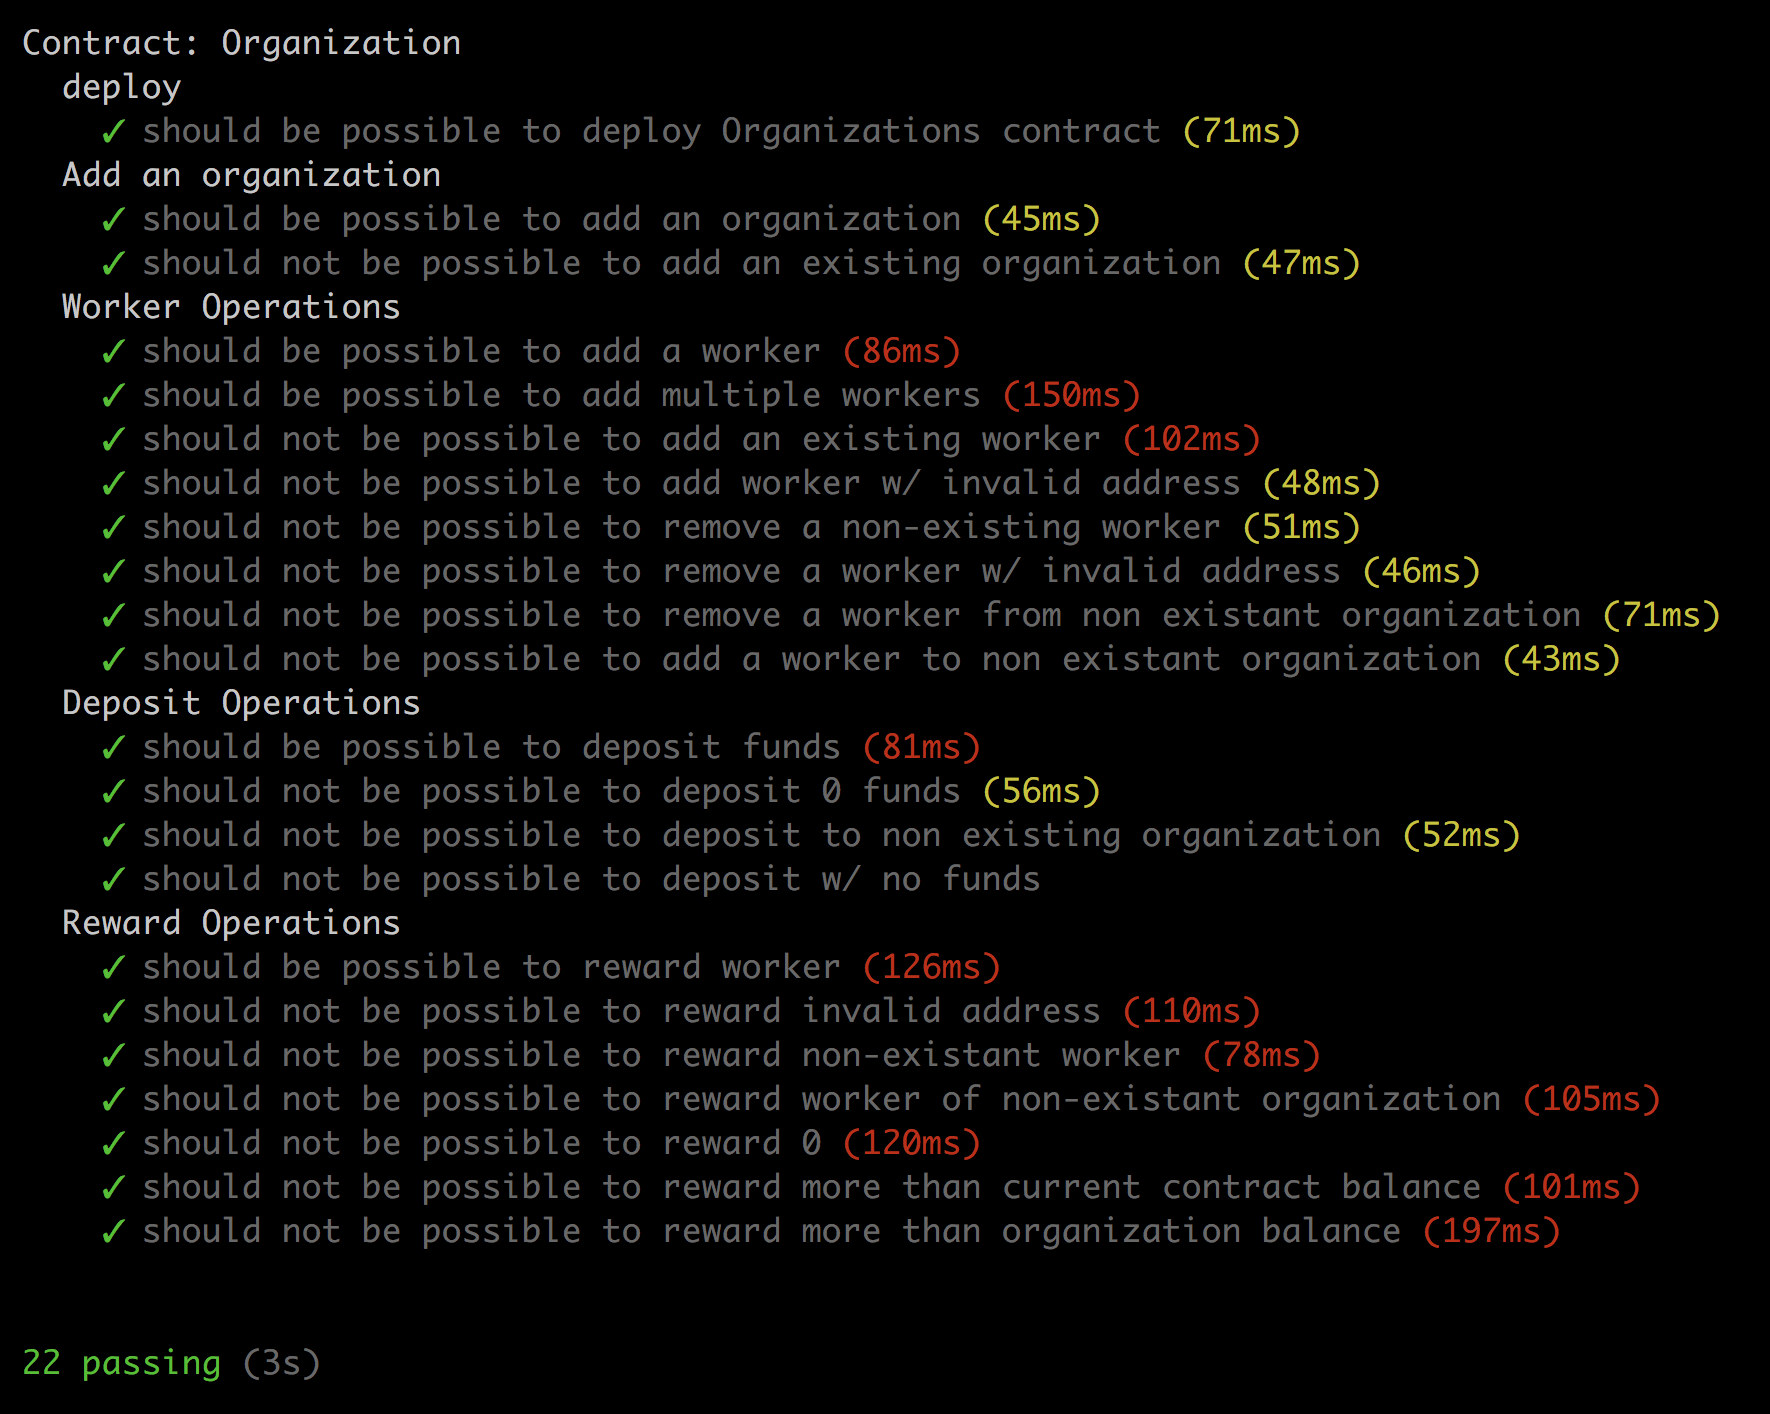
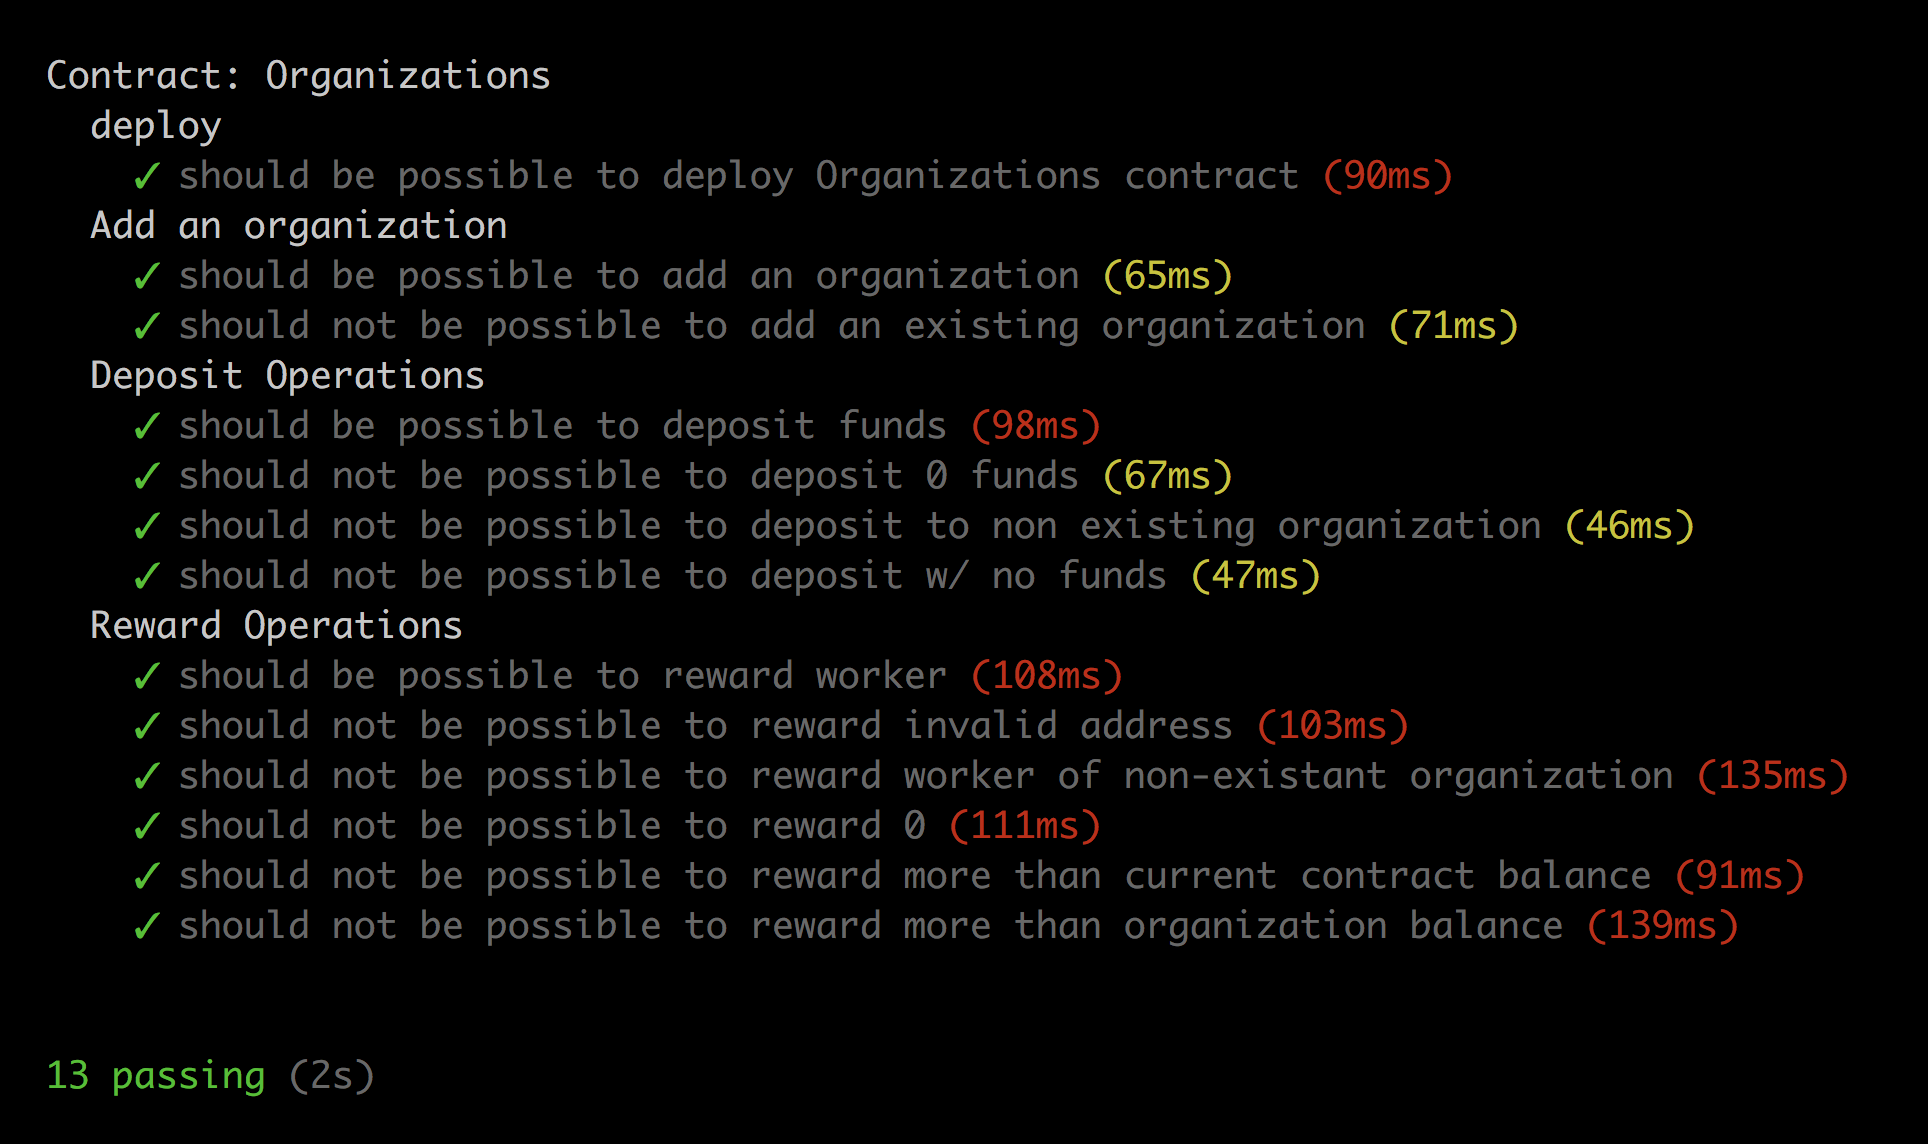
make contract simpler

Changed region(s): [[0.0, 0.0, 0.9633, 0.8872], [0.0, 0.9178, 0.1864, 0.979]]

diff --git a/test/organizations.spec.js b/test/organizations.spec.js
@@ -10,16 +10,15 @@ if (typeof web3.eth.getAccountsPromise === "undefined") {
     Promise.promisifyAll(web3.eth, { suffix: "Promise" });
 }
 
-contract('Organization', accounts => {
+contract('Organizations', accounts => {
 
-    let owner0, owner1, worker0, worker1, orgs;
+    let owner0, owner1, worker0, orgs;
 
     before("should prepare", async () => {
-        assert.isAtLeast(accounts.length, 4);
+        assert.isAtLeast(accounts.length, 3);
         owner0 = accounts[0];
-        owner1 = accounts[1]
+        owner1 = accounts[1];
         worker0 = accounts[2];
-        worker1 = accounts[3];
         const balance = await web3.eth.getBalancePromise(owner0);
         assert.isAtLeast(web3.fromWei(balance).toNumber(), 10);
     });
@@ -56,85 +55,6 @@ contract('Organization', accounts => {
               () => orgs.addOrganization({ from: owner0, gas: 3000000 }),
               3000000);
       });
-
-    });
-
-    describe("Worker Operations", () => {
-
-        beforeEach("should deploy organizations contract and add organization", async () => {
-            orgs = await Organizations.new({ from: owner0 });
-            orgs.addOrganization({ from: owner0 })
-        });
-
-        it("should be possible to add a worker", async () => {
-            const tx = await orgs.addWorker(worker0, { from: owner0 });
-            const workerExists = await orgs.getWorkerExistance(worker0);
-            assert.strictEqual(tx.receipt.logs.length, 1);
-            assert.strictEqual(tx.logs.length, 1);
-            const logWorkerAdded = tx.logs[0];
-            assert.strictEqual(logWorkerAdded.event, "LogWorkerAdded");
-            assert.strictEqual(logWorkerAdded.args._worker, worker0);
-            assert.strictEqual(workerExists, true, 'Worker does not exist');
-        });
-
-        it("should be possible to add multiple workers", async () => {
-            const tx = await orgs.addWorker(worker0, { from: owner0 });
-            const workerExists = await orgs.getWorkerExistance(worker0, { from: owner0 });
-            assert.strictEqual(tx.receipt.logs.length, 1);
-            assert.strictEqual(tx.logs.length, 1);
-            const logWorkerAdded = tx.logs[0];
-            assert.strictEqual(logWorkerAdded.event, "LogWorkerAdded");
-            assert.strictEqual(logWorkerAdded.args._worker, worker0);
-            assert.strictEqual(workerExists, true, 'Worker does not exist');
-
-            const tx2 = await orgs.addWorker(worker1, { from: owner0 });
-            const workerExists2 = await orgs.getWorkerExistance(worker1, { from: owner0 });
-            assert.strictEqual(tx2.receipt.logs.length, 1);
-            assert.strictEqual(tx2.logs.length, 1);
-            const logWorkerAdded2 = tx2.logs[0];
-            assert.strictEqual(logWorkerAdded2.event, "LogWorkerAdded");
-            assert.strictEqual(logWorkerAdded2.args._worker, worker1);
-            assert.strictEqual(workerExists2, true, 'Worker does not exist');
-        });
-
-        it("should not be possible to add an existing worker", async () => {
-            await orgs.addWorker(worker0, { from: owner0 });
-            return expectedExceptionPromise(
-                () => orgs.addWorker(worker0, { from: owner0, gas: 3000000 }),
-                3000000);
-        });
-
-        it("should not be possible to add worker w/ invalid address", async () => {
-            return expectedExceptionPromise(
-                () => orgs.addWorker(0, { from: owner0, gas: 3000000 }),
-                3000000);
-        });
-
-        it("should not be possible to remove a non-existing worker", async () => {
-            return expectedExceptionPromise(
-                () => orgs.removeWorker(worker0, { from: owner0, gas: 3000000 }),
-                3000000);
-        });
-
-        it("should not be possible to remove a worker w/ invalid address", async () => {
-            return expectedExceptionPromise(
-                () => orgs.removeWorker(0, { from: owner0, gas: 3000000 }),
-                3000000);
-        });
-
-        it("should not be possible to remove a worker from non existant organization", async () => {
-            await orgs.addWorker(worker0, { from: owner0 });
-            return expectedExceptionPromise(
-                () => orgs.removeWorker(worker0, { from: owner1, gas: 3000000 }),
-                3000000);
-        });
-
-
-        it("should not be possible to add a worker to non existant organization", async () => {
-            return expectedExceptionPromise(
-                () => orgs.addWorker(worker0, { from: owner1, gas: 3000000 }),
-                3000000);
-        });
 
     });
 
@@ -191,7 +111,6 @@ contract('Organization', accounts => {
           const rewardAmount = web3.toWei(0.5, 'ether');
           const initialWorkerBalance = await web3.eth.getBalancePromise(worker0);
           await orgs.deposit({ from: owner0, value: amount });
-          await orgs.addWorker(worker0, { from: owner0 });
           const tx = await orgs.rewardWorker(worker0, rewardAmount, { from: owner0});
           assert.strictEqual(tx.receipt.logs.length, 1);
           assert.strictEqual(tx.logs.length, 1);
@@ -211,18 +130,8 @@ contract('Organization', accounts => {
           const amount = web3.toWei(1, 'ether');
           const rewardAmount = web3.toWei(0.5, 'ether');
           await orgs.deposit({ from: owner0, value: amount });
-          await orgs.addWorker(worker0, { from: owner0 });
           return expectedExceptionPromise(
               () => orgs.rewardWorker(0, rewardAmount, { from: owner0, gas: 3000000}),
-              3000000);
-      });
-
-      it("should not be possible to reward non-existant worker", async () => {
-          const amount = web3.toWei(1, 'ether');
-          const rewardAmount = web3.toWei(0.5, 'ether');
-          await orgs.deposit({ from: owner0, value: amount });
-          return expectedExceptionPromise(
-              () => orgs.rewardWorker(worker0, rewardAmount, { from: owner0, gas: 3000000}),
               3000000);
       });
 
@@ -231,7 +140,6 @@ contract('Organization', accounts => {
         const rewardAmount = web3.toWei(0.5, 'ether');
         const initialWorkerBalance = await web3.eth.getBalancePromise(worker0);
         await orgs.deposit({ from: owner0, value: amount });
-        await orgs.addWorker(worker0, { from: owner0 });
           return expectedExceptionPromise(
               () => orgs.rewardWorker(worker0, rewardAmount, { from: owner1, gas: 3000000}),
               3000000);
@@ -241,7 +149,6 @@ contract('Organization', accounts => {
           const amount = web3.toWei(1, 'ether');
           const rewardAmount = web3.toWei(0, 'ether');
           await orgs.deposit({ from: owner0, value: amount });
-          await orgs.addWorker(worker0, { from: owner0 });
           return expectedExceptionPromise(
               () => orgs.rewardWorker(worker0, rewardAmount, { from: owner0, gas: 3000000}),
               3000000);
@@ -251,7 +158,6 @@ contract('Organization', accounts => {
           const amount = web3.toWei(1, 'ether');
           const rewardAmount = web3.toWei(2, 'ether');
           await orgs.deposit({ from: owner0, value: amount });
-          await orgs.addWorker(worker0, { from: owner0 });
           return expectedExceptionPromise(
               () => orgs.rewardWorker(worker0, rewardAmount, { from: owner0, gas: 3000000}),
               3000000);
@@ -263,7 +169,6 @@ contract('Organization', accounts => {
           await orgs.addOrganization({ from: owner1 })
           await orgs.deposit({ from: owner0, value: amount });
           await orgs.deposit({ from: owner1, value: 3 * amount });
-          await orgs.addWorker(worker0, { from: owner0 });
           return expectedExceptionPromise(
               () => orgs.rewardWorker(worker0, rewardAmount, { from: owner0, gas: 3000000}),
               3000000);
